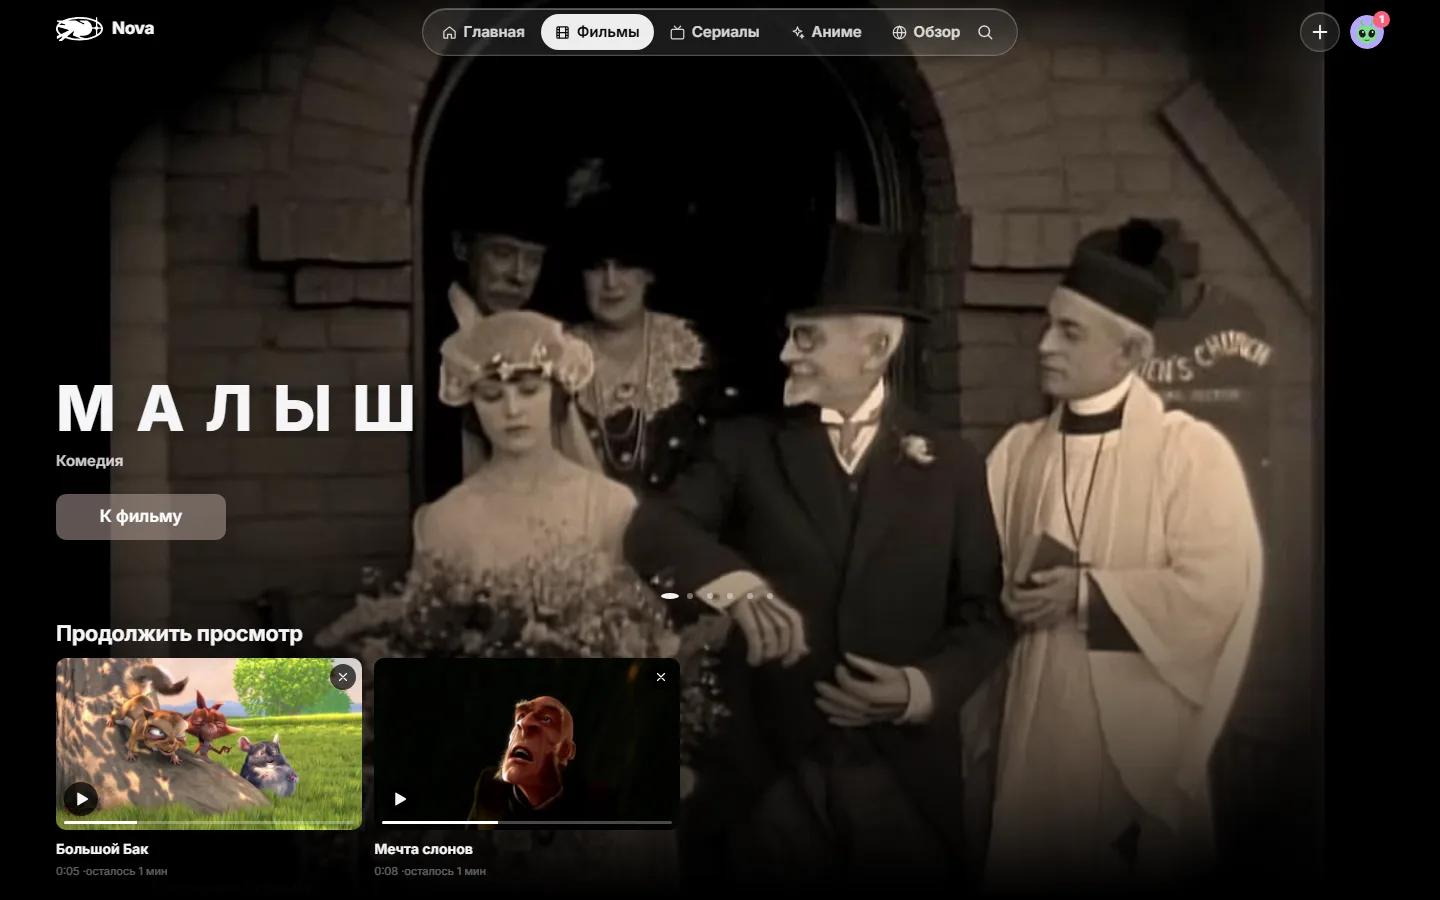
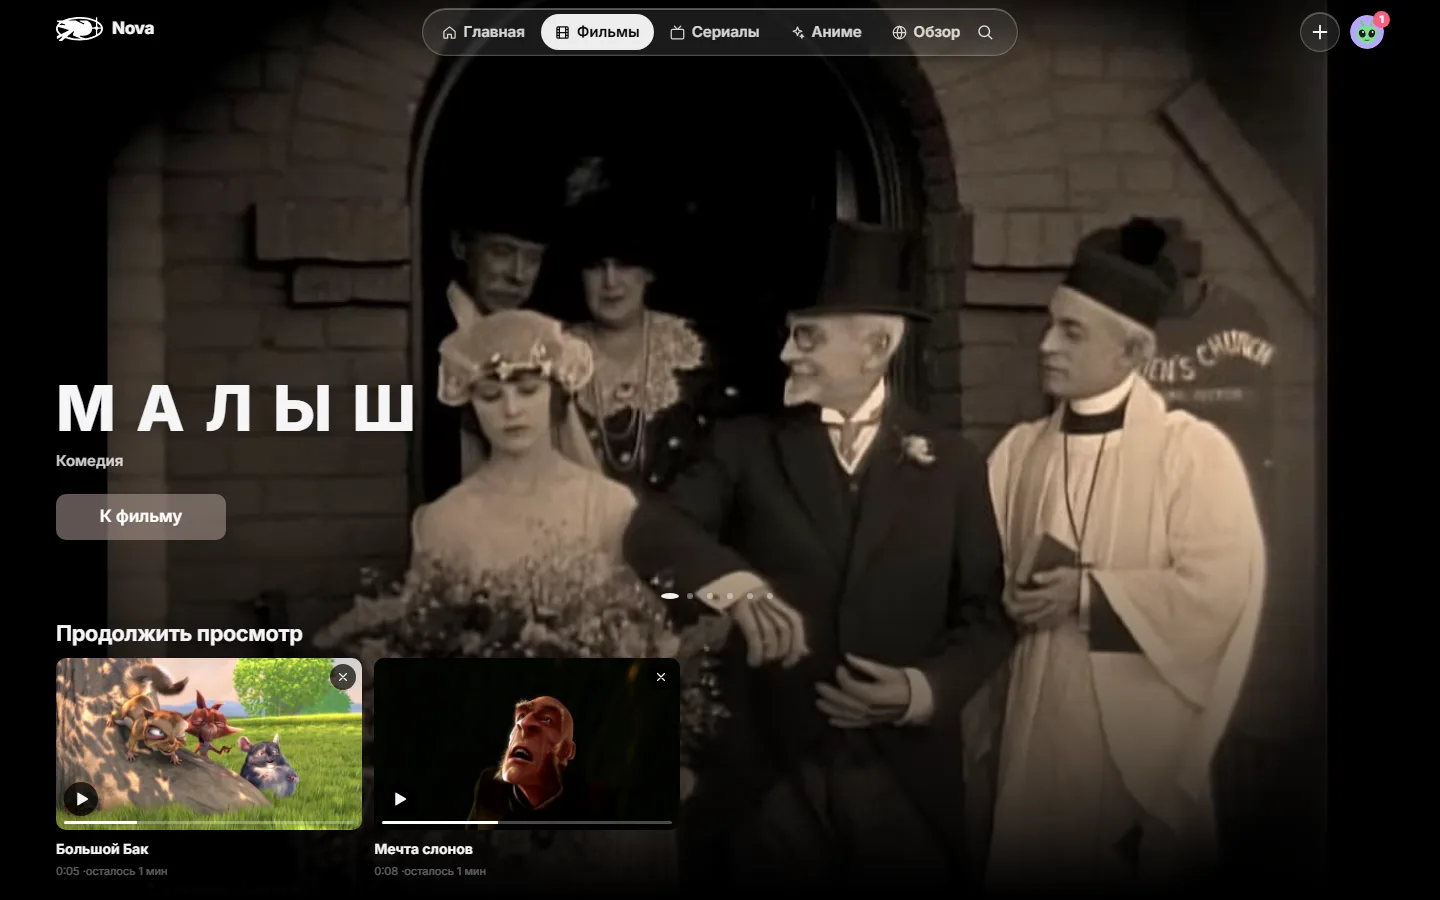
fix: телефон - без капсулы разделов на главной, кадр героя сверху целиком

diff --git a/web/src/routes/+page.svelte b/web/src/routes/+page.svelte
@@ -10,7 +10,7 @@
   import ContinueRow from '$lib/ui/ContinueRow.svelte';
   import Loading from '$lib/ui/Loading.svelte';
   import BrowseGenres from '$lib/ui/BrowseGenres.svelte';
-  import { counts, featured, filter, isAnime, ofTab, shelves, STATUSES, statusOf, TABS, tabOf, type Status } from '$lib/library';
+  import { counts, featured, filter, isAnime, ofTab, shelves, STATUSES, statusOf, tabOf, type Status } from '$lib/library';
   import { session } from '$lib/session.svelte';
   import Hero from '$lib/ui/Hero.svelte';
   import Icon from '$lib/ui/Icon.svelte';
@@ -120,13 +120,6 @@
 </script>
 
 <div class="home" class:flat={tab !== 'home' && items !== null && !hero.length} class:homepage={tab === 'home'}>
-  <!-- Ниже 1000 px капсулы в шапке нет - разделы каталога здесь, поверх кадра. -->
-  <nav class="kinds" aria-label="Разделы каталога">
-    {#each TABS as t (t.id)}
-      <a href={t.href} class:on={tab === t.id} aria-current={tab === t.id ? 'page' : undefined}><Icon name={t.id === 'home' ? 'home' : t.id === 'movies' ? 'film' : t.id === 'series' ? 'tv' : 'sparkle'} size={13} />{t.label}</a>
-    {/each}
-  </nav>
-
   {#if catalog.failed}
     <div class="page empty"><Icon name="offline" size={40} /> Не удалось загрузить - проверьте связь</div>
   {:else if items === null}
@@ -220,10 +213,7 @@
 </div>
 
 <style>
-  @media(max-width:380px) { .kinds { width: calc(100% - 32px) !important; gap: 0 !important; } .kinds a { flex: 1; min-width: 0; justify-content: center; padding-inline: 3px !important; font-size: 10px !important; gap: 3px !important; } }
   .ph-hero { display: grid; place-items: center; background: #000; }
-  .kinds a { display: inline-flex; align-items: center; gap: 5px; }
-  .kinds a.on { background: #000; color: white; box-shadow: inset 0 0 0 1px #ffffff80; }
   .homepage .rows { margin-top: 0; padding-top: 12px; }
   .welcome { min-height: 430px; padding: calc(var(--header) + 80px) var(--gutter) 48px; background: radial-gradient(ellipse at 80% 20%, #37302566, transparent 65%); }
   .welcome h1 { font-size: clamp(32px, 4vw, 64px); letter-spacing: -.04em; margin: 18px 0; }
@@ -239,49 +229,6 @@
     min-height: 100dvh;
     padding-bottom: calc(48px + var(--tabbar));
   }
-  .kinds {
-    display: none;
-  }
-  @media (max-width: 1000px) {
-    .kinds {
-      position: absolute;
-      z-index: 5;
-      top: calc(var(--header) + env(safe-area-inset-top) + 4px);
-      left: 50%;
-      translate: -50% 0;
-      display: flex;
-      gap: 2px;
-      padding: 4px;
-      border-radius: 999px;
-      background: #000;
-      transition: background 0.5s;
-      box-shadow: inset 0 0 0 1px rgba(255, 255, 255, 0.08);
-    }
-    .kinds a {
-      padding: 6px clamp(8px, 2vw, 16px);
-      border-radius: 999px;
-      color: rgba(255, 255, 255, 0.82);
-      font-size: clamp(12px, 3vw, 14px);
-      font-weight: 600;
-      white-space: nowrap;
-      transition:
-        background 0.2s,
-        color 0.2s;
-    }
-    .kinds a.on {
-      background: #000; box-shadow: inset 0 0 0 1px #ffffff80;
-      color: #fff;
-    }
-    /* Без героя капсула - над содержимым. */
-    .flat .kinds {
-      position: relative;
-      top: auto;
-      left: auto;
-      translate: none;
-      width: max-content;
-      margin: calc(var(--header) + env(safe-area-inset-top) + 4px) auto 0;
-    }
-  }
   /* Ряды «лежат» на нижней части кадра, как у Apple TV. */
   .rows {
     position: relative;
@@ -295,7 +242,7 @@
   }
   @media (max-width: 1000px) {
     .flat .rows {
-      padding-top: 20px;
+      padding-top: calc(var(--header) + env(safe-area-inset-top) + 20px);
     }
   }
   @media (max-width: 640px) {
@@ -362,23 +309,5 @@
   }
   .empty :global(.btn) {
     margin-top: 6px;
-  }
-  /* Капсула разделов поверх кадра (телефон, планшет) - «жидкое стекло», как верхняя на ПК. */
-  @media (max-width: 1000px) {
-    .kinds {
-      background: rgba(255, 255, 255, 0.1);
-    -webkit-backdrop-filter: blur(22px) saturate(180%);
-    backdrop-filter: blur(22px) saturate(180%);
-    border: 1px solid rgba(255, 255, 255, 0.22);
-    box-shadow:
-      inset 0 1px 0 rgba(255, 255, 255, 0.28),
-      inset 0 -1px 0 rgba(255, 255, 255, 0.06),
-      0 10px 30px -12px rgba(0, 0, 0, 0.6);
-    }
-    .kinds a.on {
-      background: rgba(255, 255, 255, 0.92) !important;
-      color: #0a0a0a !important;
-      box-shadow: none !important;
-    }
   }
 </style>

diff --git a/web/src/lib/ui/Showcase.svelte b/web/src/lib/ui/Showcase.svelte
@@ -114,7 +114,7 @@
   .poster img { display: block; width: 100%; aspect-ratio: 2/3; object-fit: cover; }
   .pagination { position: absolute; bottom: 22px; right: var(--gutter); display: flex; align-items: center; gap: 14px; font-variant-numeric: tabular-nums; font-size: 12px; }
   .pagination button { width: 32px; height: 32px; border-radius: 50%; border: 1px solid #ffffff30; background: #0005; color: white; display: grid; place-items: center; cursor: pointer; }
-  @media(max-width: 640px) { .showcase { height: auto; min-height: 500px; padding-top: calc(var(--header) + 90px); padding-bottom: 64px; align-items: flex-end; } .copy { max-width: 100%; } .poster { display: none; } .shade { background: linear-gradient(0deg, var(--bg), #0009 70%, #0005); } .description { font-size: 14px; } .eyebrow { font-size: 10px; } }
+  @media(max-width: 640px) { .showcase { height: auto; min-height: 500px; padding-top: calc(var(--header) + 24px); padding-bottom: 64px; align-items: flex-end; } .copy { max-width: 100%; } .poster { display: none; } .shade { background: linear-gradient(0deg, var(--bg), #0009 70%, #0005); } .description { font-size: 14px; } .eyebrow { font-size: 10px; } }
   /* «Кинозал»: главная кнопка кадра - белая капсула на любом экране. */
   .actions .btn.primary { background: #fff; color: #0a0a0a; border: 0; height: 46px; padding: 0 26px; border-radius: 999px; font-weight: 700; transition: transform .15s ease; }
   .actions .btn.primary:active { transform: scale(.96); }
@@ -125,5 +125,10 @@
     .copy h1 { font-size: clamp(32px, 10vw, 44px); letter-spacing: -.035em; margin: 6px 0 12px; }
     .meta { font-size: 12px; text-transform: uppercase; letter-spacing: .06em; font-weight: 600; gap: 4px 10px; }
     .pagination { bottom: 14px; }
+    /* Кадр 16:9 на высокий экран растягивался во всю высоту - виднелась четверть картинки. Теперь кадр
+       сверху почти целиком (4:3) и плавно уходит в фон, название - под ним. */
+    .showcase { height: auto; padding-top: calc(75vw - 64px); }
+    .backdrop { bottom: auto; height: auto; aspect-ratio: 4 / 3; object-position: center 35%; -webkit-mask-image: linear-gradient(#000 62%, transparent); mask-image: linear-gradient(#000 62%, transparent); }
+    .shade { background: linear-gradient(0deg, var(--bg) 30%, #0000 70%), linear-gradient(180deg, #0006, #0000 30%); }
   }
 </style>

diff --git a/CHANGELOG.md b/CHANGELOG.md
@@ -22,6 +22,9 @@
 - короткое название на вкладках «Фильмы» и «Сериалы» больше не ломается посреди слова («МАЛЫ / Ш»);
 - возрастные метки IMDb, которые не возраст («Passed», «Approved», «Not Rated»), не показываются
   по-английски (и убраны у уже скачанных фильмов);
+- телефон: капсулы разделов поверх кадра на главной больше нет - всё в нижней панели; кадр не
+  растягивается на весь экран (виднелась четверть картинки), а стоит сверху почти целиком, название -
+  под ним;
 - слоган только по-английски скрывается, а не заменяется надписью «Описание на русском пока
   недоступно».
 
